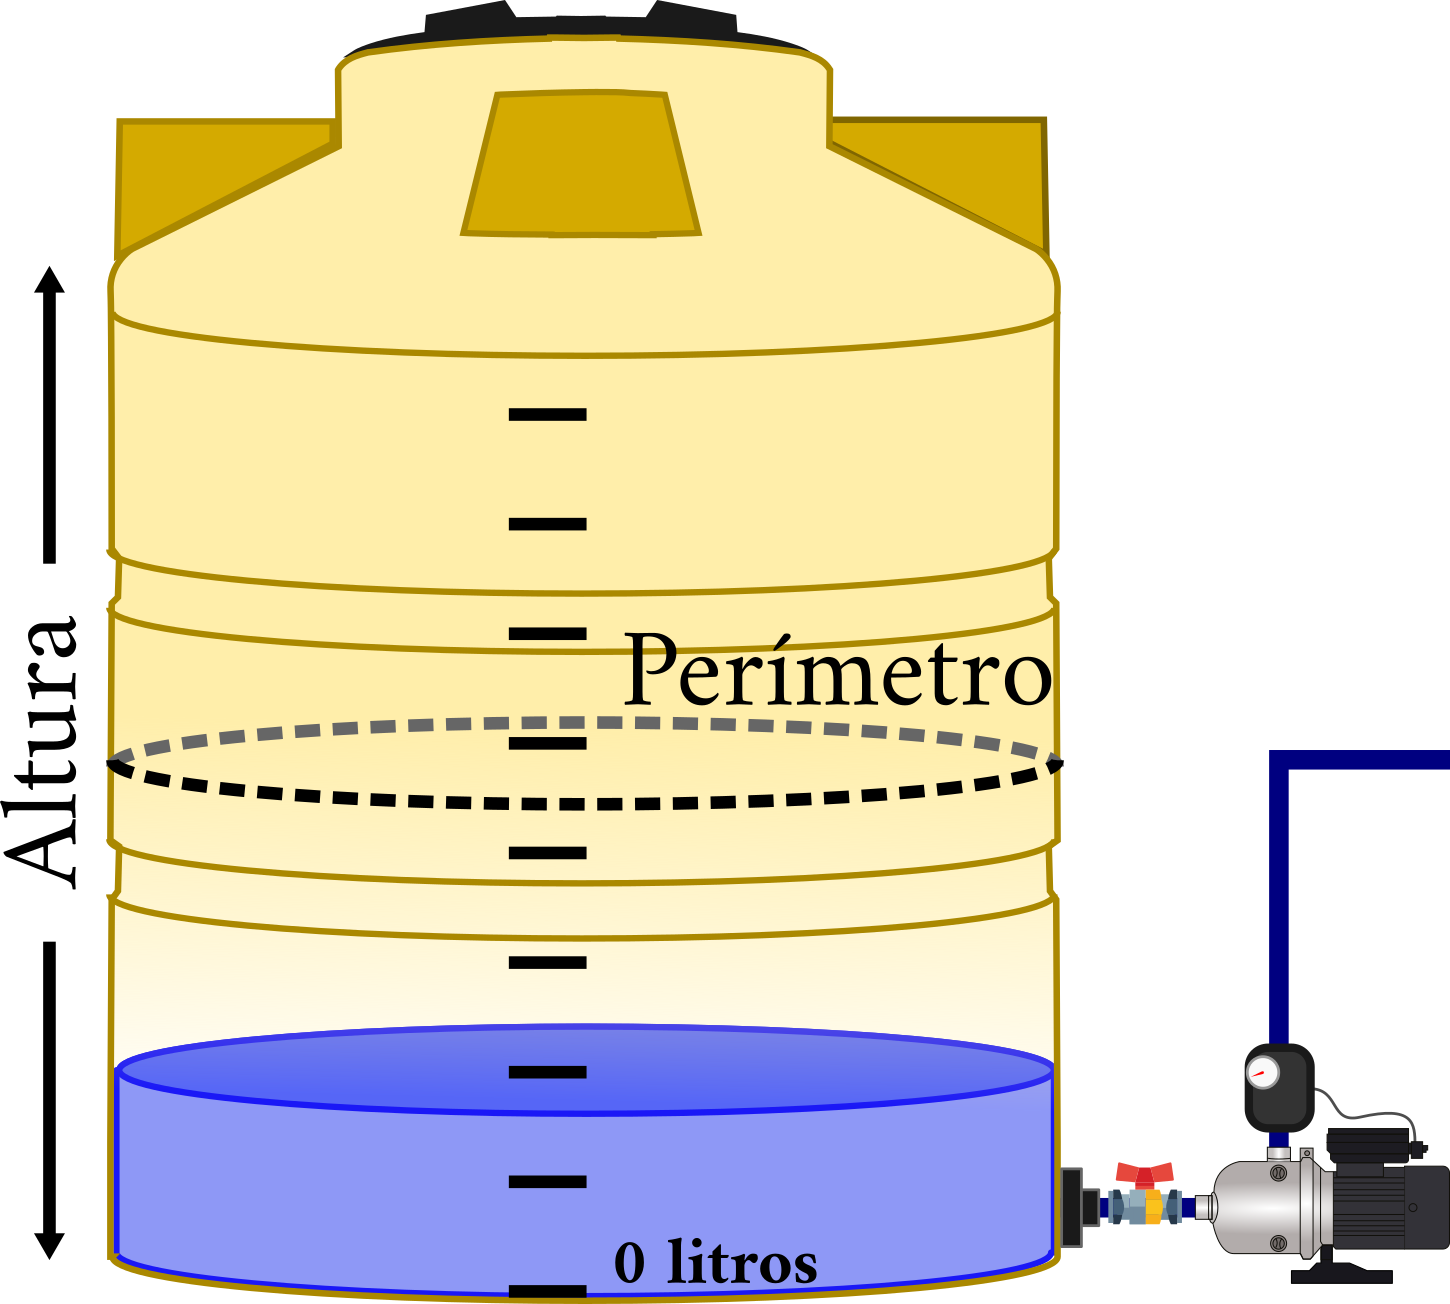
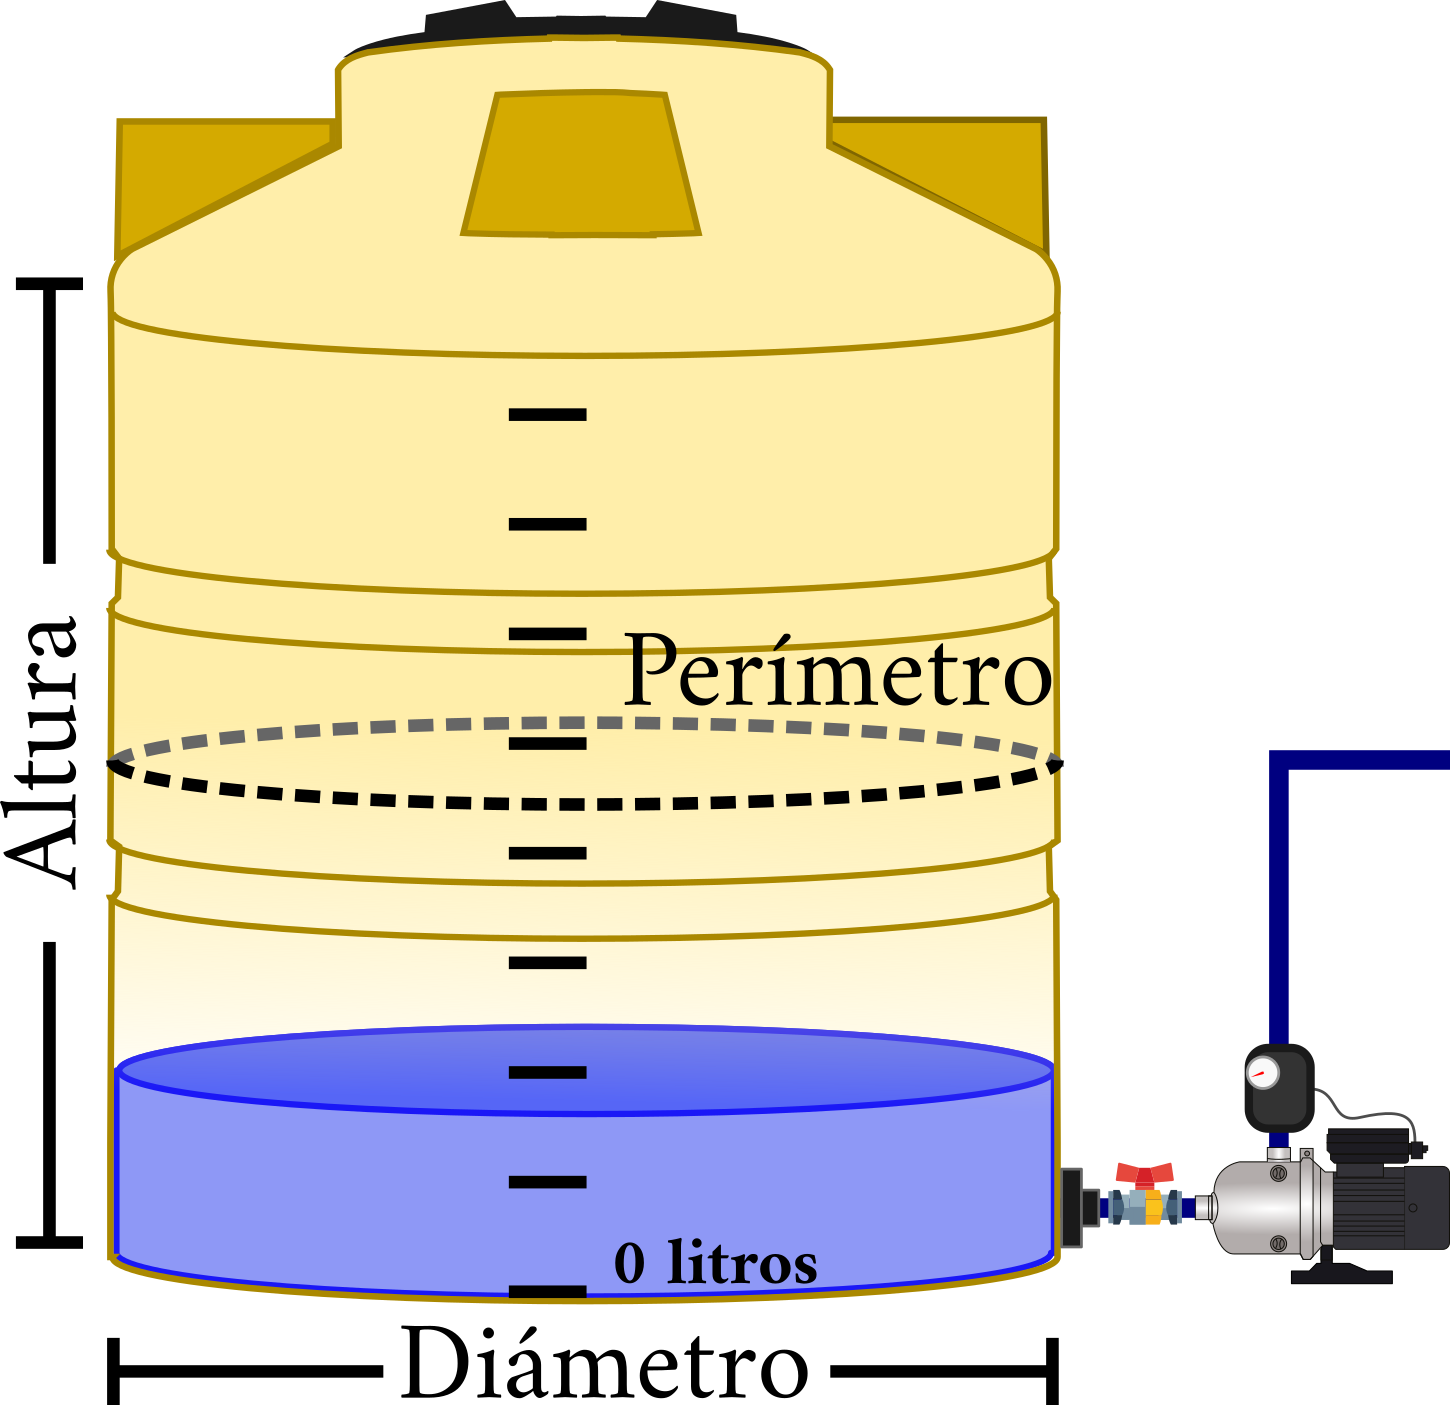
Se agrego el volument total, el diametro y se modifico la imagen

diff --git a/index.js b/index.js
@@ -8,6 +8,7 @@ var niceMax;
 
 const docAlturaInput = document.querySelector( '#alturaInput' );
 const docAlturaLabel = document.querySelector( '#alturaLabel' );
+const docVolumenLabel = document.querySelector( '#volumenLabel' );
 
 const docPerimetroInput = document.querySelector( '#perimetroInput' );
 const docPerimetroLabel = document.querySelector( '#perimetroLabel' );
@@ -59,7 +60,8 @@ const deleteTable = ( docTable ) => {
 }
 const calcular = () => {
     docAlturaLabel.textContent=`Altura: ${Number(altura).toFixed(0)} cm`;
-    docPerimetroLabel.textContent=`Perímetro: ${Number(perimetro).toFixed(0)} cm`;
+    docPerimetroLabel.setAttribute('style', 'white-space: pre; text-align: center;');
+    docPerimetroLabel.textContent=`Perímetro: ${Number(perimetro).toFixed(0)} cm\n(Diámetro: ${Number(perimetro/Math.PI).toFixed(1)} cm)`;
 
     let P=250
     let h=200
@@ -69,6 +71,8 @@ const calcular = () => {
     let Nticks=vol.niceMaximum/vol.tickSpacing
     let hticks=vol.tickSpacing*4000*Math.PI/(perimetro*perimetro)
     // console.log(Nticks, hticks,"cm")
+
+    docVolumenLabel.textContent=`Volumen total: ${Number(Vmax).toFixed(0)} litros`;
 
     /*
     docResultadoLabel.textContent=""

diff --git a/index.html b/index.html
@@ -24,6 +24,11 @@
         <input class="width200" id="alturaInput" type="range" step="1">
     </div>
     <br>
+    <br>
+
+    <label class="center" id="volumenLabel"></label>
+    <br>
+    
     
     <div class="center">
         <table id='alturaVolumenTable' style="width:200px;" >
